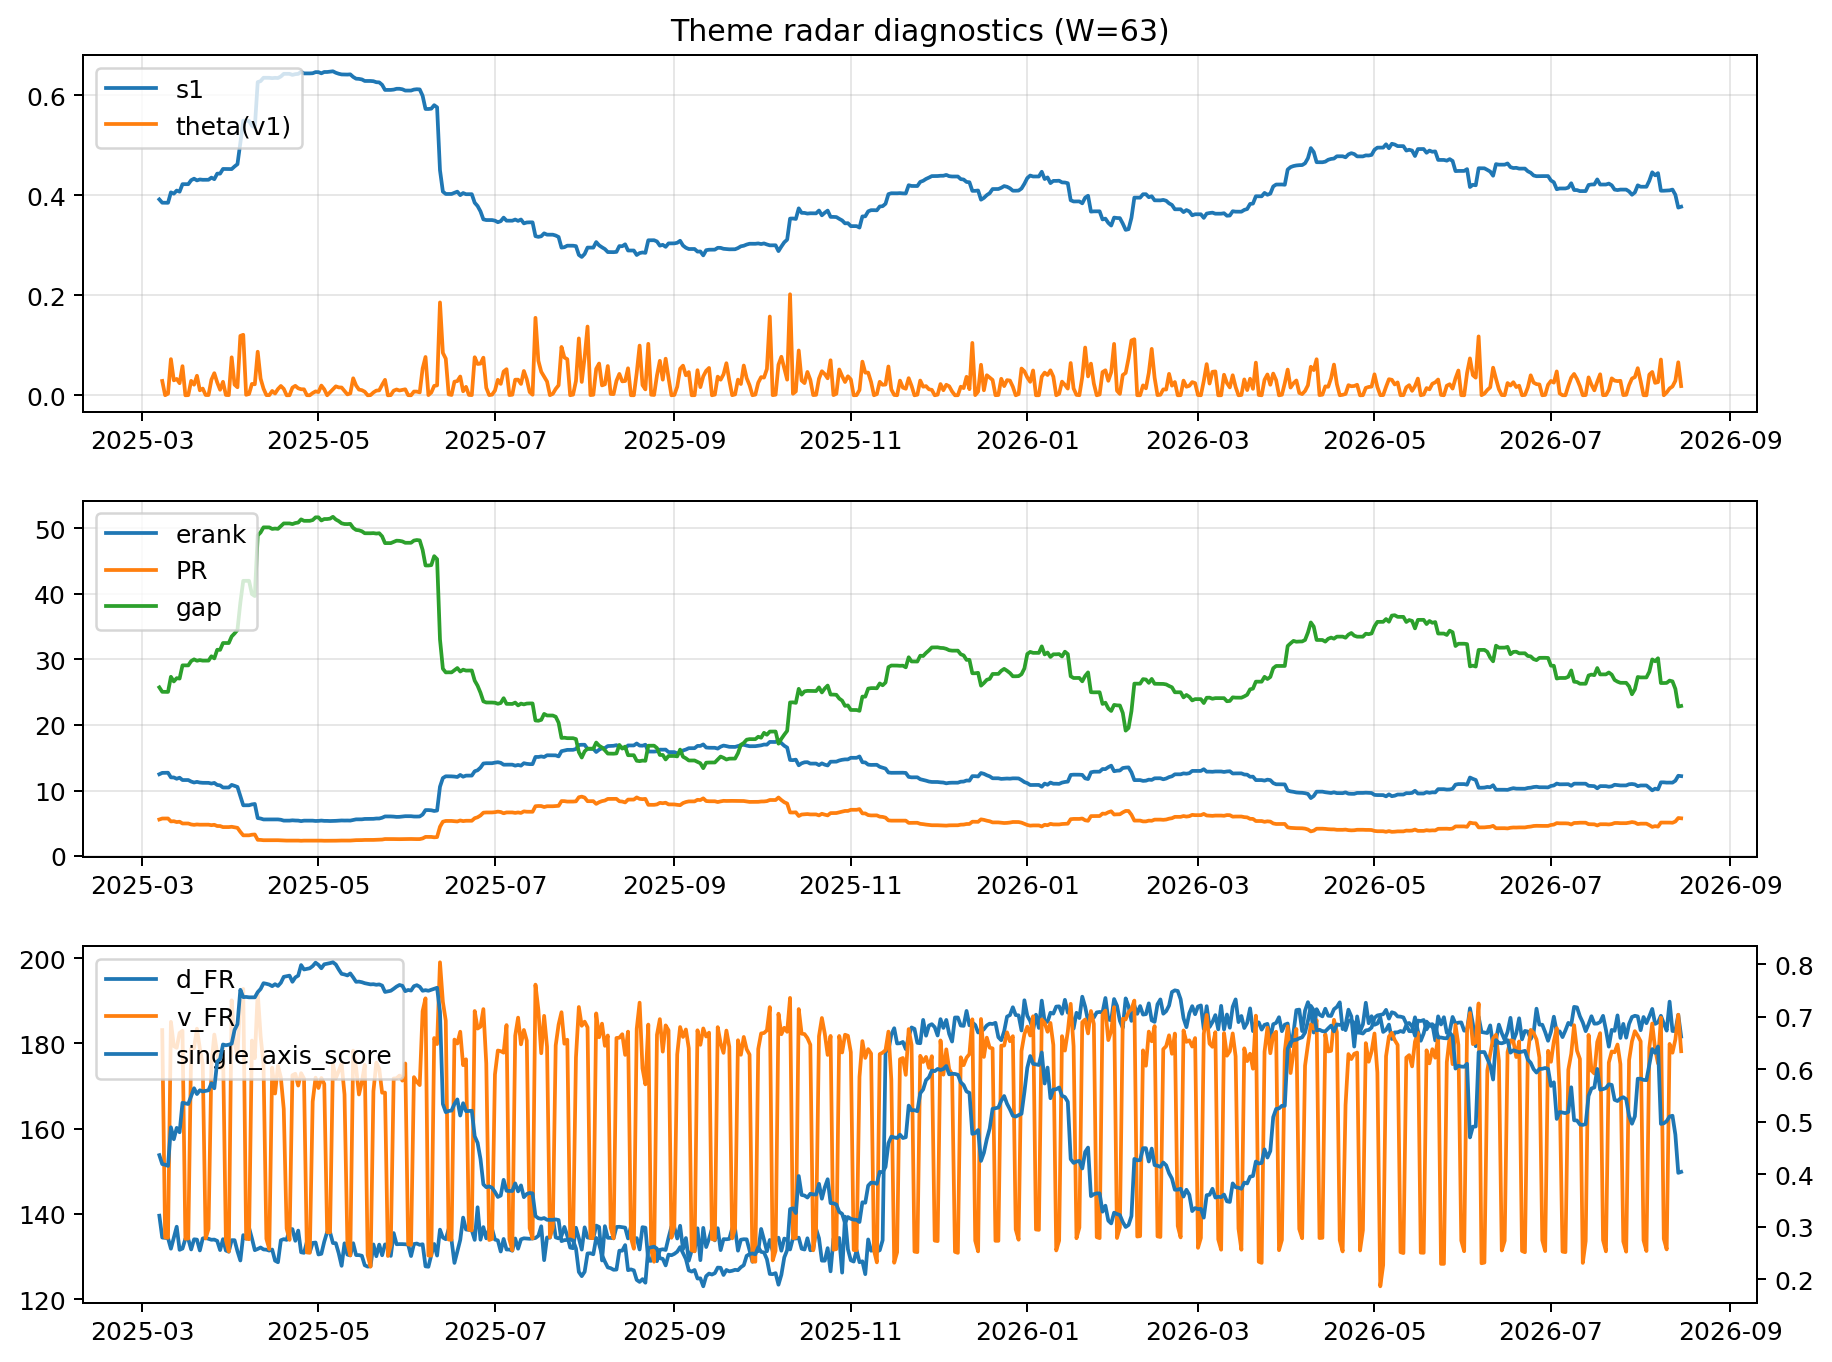
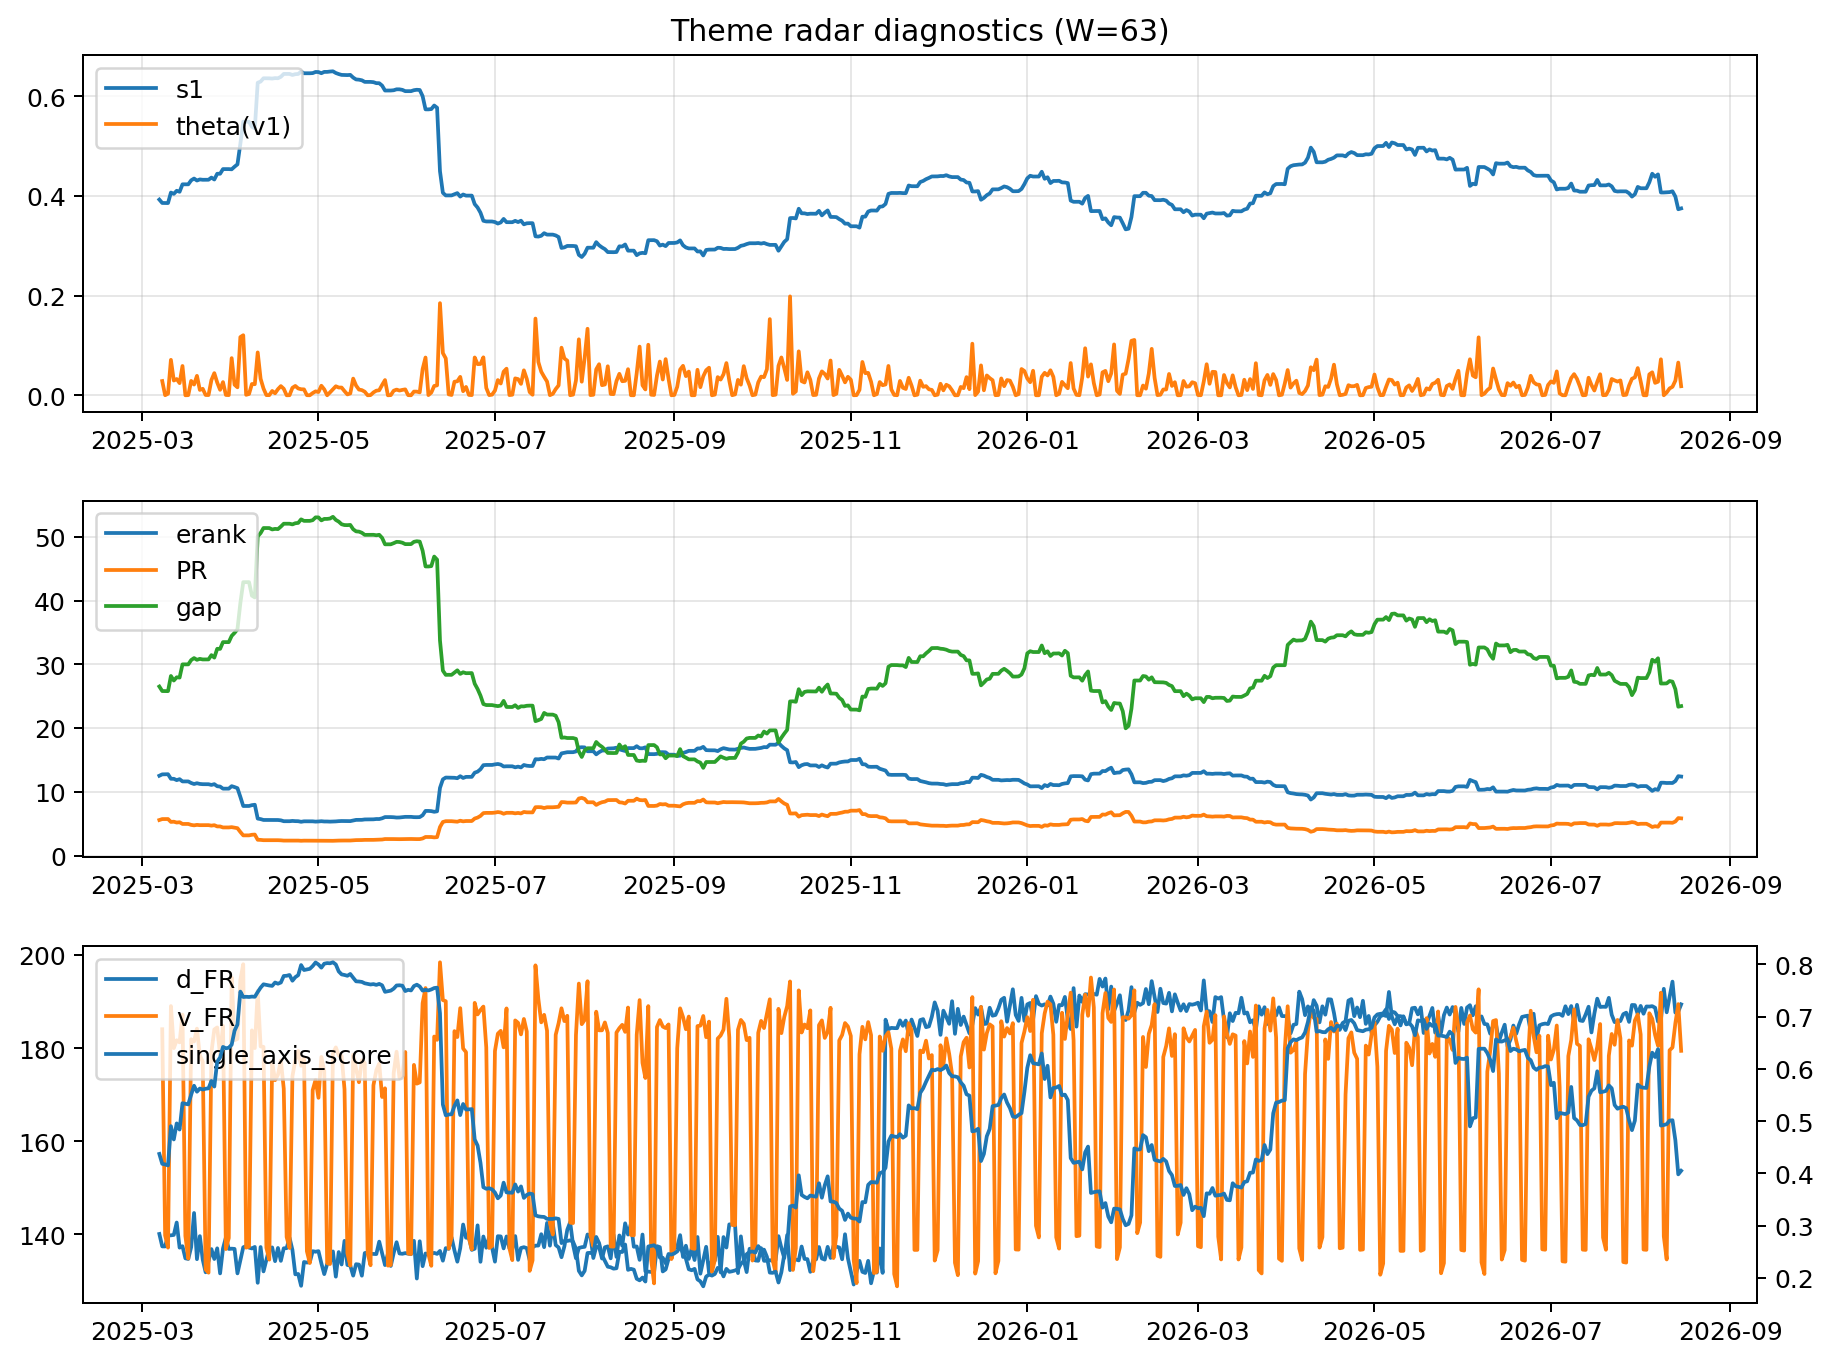
log: 2026-08-15 | sha256:6f0d01f175e5d126247ec978fc4a7950847fd74965c1d4c4266a2ac3fd49da6e

diff --git a/logs/2026-08-15.md b/logs/2026-08-15.md
@@ -3,44 +3,44 @@
 ![diagnostic W63](../assets/diagnostic/2026-08-15_W63.png)
 
 ## Leaders (v1) — W=63
-- **Nuclear_Uranium** (0.0922614517777562)
-- Semis (0.0764055959748528)
-- Quantum (0.0661609224715955)
+- **Nuclear_Uranium** (0.0905822331857288)
+- Semis (0.0746815092196347)
+- Quantum (0.0648578647953396)
 
 ## Challengers — W=63
-**v2:** Rates (0.0863665285582515), Software_Cloud (0.0819928477043641), Semis (0.074934016432008)
-**v3:** Metals (0.1237635209480243), Crypto (0.0801627996592297), MegaCap_AI (0.0659343511658728)
+**v2:** Rates (0.0867608018154602), Software_Cloud (0.0817697701786169), Semis (0.074894365884562)
+**v3:** Metals (0.1223226927914249), Crypto (0.0790273019056869), MegaCap_AI (0.062435788878519)
 
 ## Migration (20D slope) — W=63
 **Top risers:**
-- axis_Commodities: 0.000581013473762
-- axis_Semis: 0.0003464617765589
-- axis_Quantum: 0.0003172891602984
-- axis_Grid_Power: 0.0002148462257597
-- axis_Sector_Energy: 0.0002039620331155
-- axis_DataCenter_Infra: 0.0001750873723678
-- axis_Genomics_Bio: 0.0001624358812815
-- axis_Space: 0.000147482949596
-- axis_Sector_Health: 0.0001469076173469
-- axis_Defense: 0.0001410376263506
+- axis_Commodities: 0.0005730631956893
+- axis_Semis: 0.0003629742863087
+- axis_Quantum: 0.0003278411136724
+- axis_Grid_Power: 0.0002199751528271
+- axis_Sector_Energy: 0.0002006761814159
+- axis_DataCenter_Infra: 0.0001599147348868
+- axis_Sector_Health: 0.0001509646324593
+- axis_Space: 0.0001421505734485
+- axis_Genomics_Bio: 0.0001417425059763
+- axis_Defense: 0.0001294479081995
 
 **Top fallers:**
-- axis_Sector_Materials: -0.0001199832916523
-- axis_Critical_Minerals: -0.0001300524482425
-- axis_USD: -0.0001515337318354
-- axis_Sector_Comm: -0.0001600987123908
-- axis_Vol: -0.0001639830338857
-- axis_MegaCap_AI: -0.0002096920799408
-- axis_Crypto: -0.0002392549556174
-- axis_Miners: -0.0002580494946813
-- axis_Rates: -0.0004779746561568
-- axis_Metals: -0.0006508926246326
+- axis_Critical_Minerals: -0.0001245119929005
+- axis_Vol: -0.00013388694702
+- axis_USD: -0.0001487096348769
+- axis_Sector_Comm: -0.0001616967056527
+- axis_Sector_Materials: -0.000191100713804
+- axis_MegaCap_AI: -0.0002217034710825
+- axis_Crypto: -0.0002331850953416
+- axis_Miners: -0.0002518531754516
+- axis_Rates: -0.0004679635022579
+- axis_Metals: -0.0006416281958116
 
 ## Risk line (W=63)
-- s1: 0.3772400783212682
-- theta_v1: 0.0184152815588312
-- v_FR: 178.16033612469928
-- single_axis_score: 0.4045540796963946
+- s1: 0.3749036253318007
+- theta_v1: 0.0182239801771825
+- v_FR: 179.42250745359135
+- single_axis_score: 0.4049335863377609
 
 ## Interpretation
 **Regime:** `theme_migration`
@@ -48,7 +48,7 @@
 - Action: Tomorrow watchlist: Commodities, Semis, Quantum, Grid_Power, Sector_Energy + v2_top1=Rates
 - Action: Hedge note: normal correlation stability.
 
-- Percentiles (W=63 history): vfr_pct=0.54, theta_pct=0.47, s1_pct=0.34, score_pct=0.35.
+- Percentiles (W=63 history): vfr_pct=0.45, theta_pct=0.47, s1_pct=0.34, score_pct=0.35.
 
 ---
[2 lines of base64/hex data omitted]
